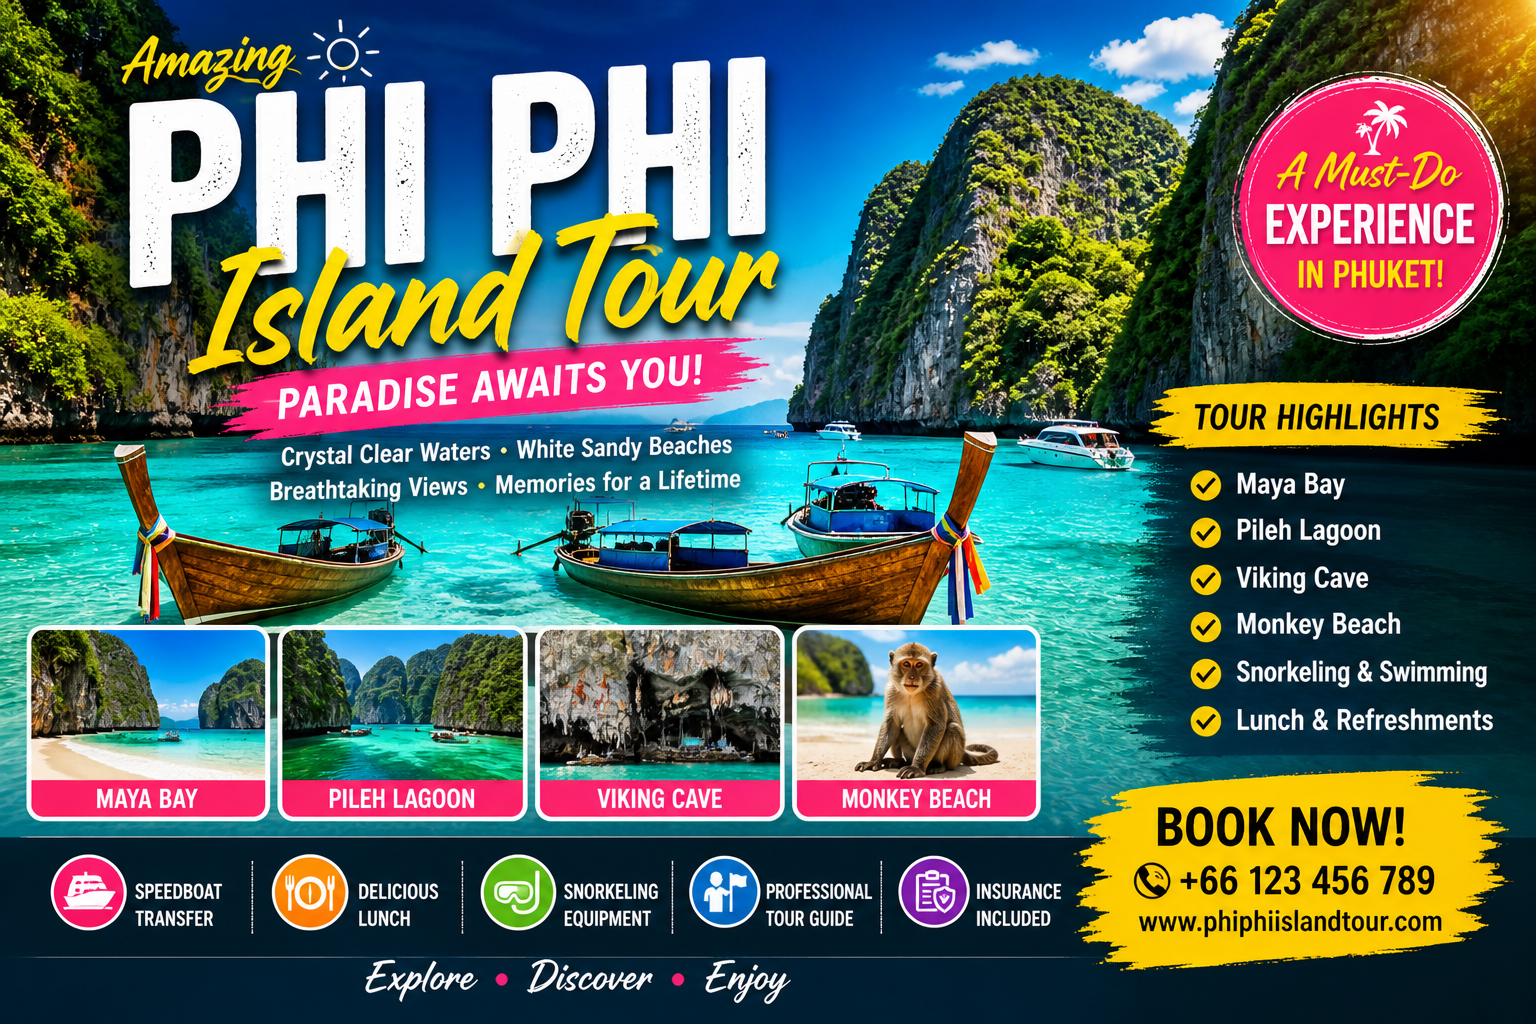
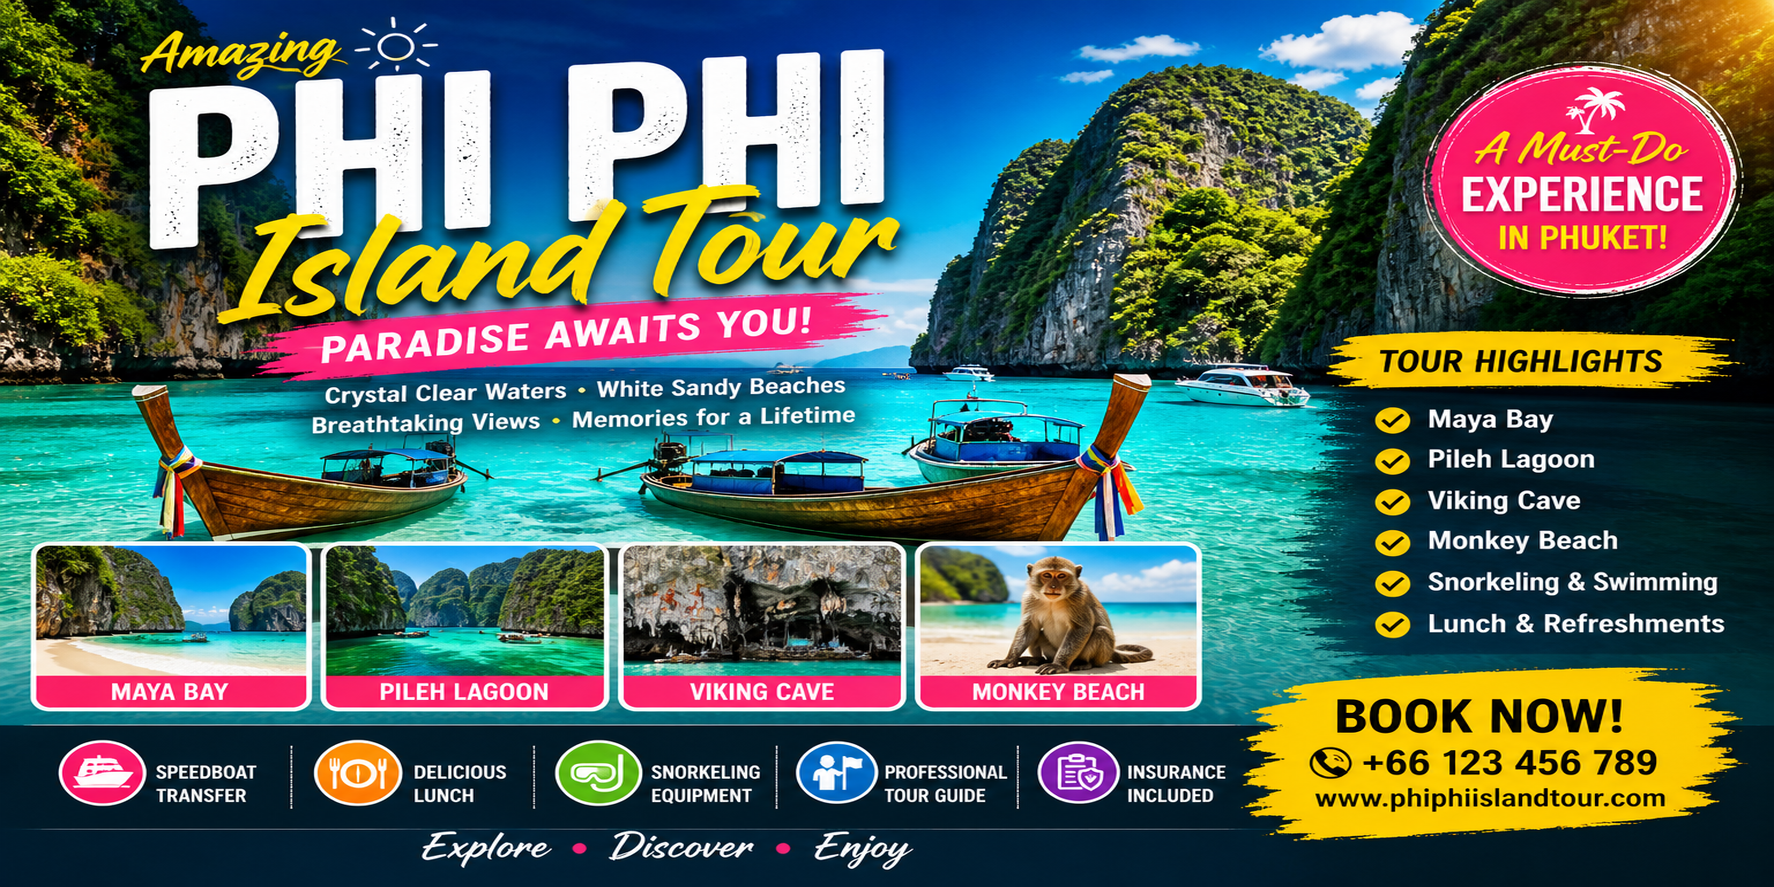
update

diff --git a/index.html b/index.html
@@ -978,123 +978,7 @@
       </div>
     </div>
   </section>
-  <!-- destinatoions-->
-  <!-- POPULAR DESTINATIONS -->
 
-  <section class="px-4 pt-4 pb-10 sm:px-6 lg:px-8">
-
-    <div class="mx-auto max-w-7xl">
-
-      <!-- HEADING -->
-
-      <div class="mb-6 text-center reveal">
-
-        <h2 class="font-display mt-2 text-3xl font-extrabold text-navy sm:text-4xl">
-
-          Popular Destinations
-
-        </h2>
-
-      </div>
-
-      <!-- DESTINATION FILTERS -->
-
-      <div id="destination-filters"
-        class="glass-panel reveal mb-6 flex flex-wrap justify-center gap-3 rounded-2xl p-4 shadow-card">
-
-        <!-- ACTIVE -->
-
-        <button class="btn-travel-gradient rounded-full px-5 py-2.5 text-sm font-extrabold text-white shadow-md">
-
-          Bangkok
-
-        </button>
-
-        <!-- OTHERS -->
-
-        <button
-          class="rounded-full border border-slate-200 bg-white px-5 py-2.5 text-sm font-bold text-slate-700 transition hover:border-navy hover:bg-navy hover:text-white">
-
-          Pattaya
-
-        </button>
-
-        <button
-          class="rounded-full border border-slate-200 bg-white px-5 py-2.5 text-sm font-bold text-slate-700 transition hover:border-navy hover:bg-navy hover:text-white">
-
-          Phuket
-
-        </button>
-
-        <button
-          class="rounded-full border border-slate-200 bg-white px-5 py-2.5 text-sm font-bold text-slate-700 transition hover:border-navy hover:bg-navy hover:text-white">
-
-          Krabi
-
-        </button>
-
-        <button
-          class="rounded-full border border-slate-200 bg-white px-5 py-2.5 text-sm font-bold text-slate-700 transition hover:border-navy hover:bg-navy hover:text-white">
-
-          Koh Samui
-
-        </button>
-
-        <button
-          class="rounded-full border border-slate-200 bg-white px-5 py-2.5 text-sm font-bold text-slate-700 transition hover:border-navy hover:bg-navy hover:text-white">
-
-          Chiang Mai
-
-        </button>
-
-        <button
-          class="rounded-full border border-slate-200 bg-white px-5 py-2.5 text-sm font-bold text-slate-700 transition hover:border-navy hover:bg-navy hover:text-white">
-
-          Chiang Rai
-
-        </button>
-
-      </div>
-
-      <!-- DESTINATION SLIDER -->
-
-      <div class="destination-container reveal">
-
-        <div class="relative">
-
-          <!-- PREV -->
-
-          <button id="destination-prev" type="button"
-            class="btn-travel-gradient absolute -left-3 top-1/2 z-10 hidden h-10 w-10 -translate-y-1/2 items-center justify-center rounded-full text-white shadow-premium transition hover:brightness-110 md:flex">
-
-            <i data-lucide="chevron-left" class="h-5 w-5"></i>
-
-          </button>
-
-          <!-- GRID -->
-
-          <div id="destination-grid" class="slider-track scrollbar-hide flex gap-5 overflow-x-auto rounded-2xl">
-
-            <!-- PASTE DESTINATION CARDS HERE -->
-
-          </div>
-
-          <!-- NEXT -->
-
-          <button id="destination-next" type="button"
-            class="btn-travel-gradient absolute -right-3 top-1/2 z-10 hidden h-10 w-10 -translate-y-1/2 items-center justify-center rounded-full text-white shadow-premium transition hover:brightness-110 md:flex">
-
-            <i data-lucide="chevron-right" class="h-5 w-5"></i>
-
-          </button>
-
-        </div>
-
-      </div>
-
-    </div>
-
-  </section>
   <!-- Flight banner -->
   <section class="px-4 pb-12 sm:px-6 lg:px-8">
 
@@ -2194,196 +2078,11 @@
   </script>
   <script>
 
-    // =========================
-    // DESTINATIONS DATA
-    // =========================
-
-    const destinations = [
-
-      // BANGKOK
-      {
-        category: "Bangkok",
-        image: "./destinations/b1.png",
-        title: "Bangkok City",
-      },
-
-      {
-        category: "Bangkok",
-        image: "./destinations/b2.png",
-        title: "Bangkok Nightlife",
-      },
-
-      {
-        category: "Bangkok",
-        image: "./destinations/b3.png",
-        title: "Bangkok Temples",
-      },
 
 
 
-      // PHUKET
-      {
-        category: "Phuket",
-        image: "./destinations/p1.png",
-        title: "Phuket Beaches",
-      },
 
-      {
-        category: "Phuket",
-        image: "./destinations/p2.png",
-        title: "Phi Phi Island",
-      },
-
-      {
-        category: "Phuket",
-        image: "./destinations/p3.png",
-        title: "Phuket Sunset",
-      },
-
-
-
-      // PATTAYA
-      {
-        category: "Pattaya",
-        image: "",
-        title: "Pattaya Beach",
-      },
-
-
-
-      // KRABI
-      {
-        category: "Krabi",
-        image: "",
-        title: "Krabi Islands",
-      },
-
-
-
-      // KOH SAMUI
-      {
-        category: "Koh Samui",
-        image: "",
-        title: "Koh Samui",
-      },
-
-
-
-      // CHIANG MAI
-      {
-        category: "Chiang Mai",
-        image: "",
-        title: "Chiang Mai Mountains",
-      },
-
-
-
-      // CHIANG RAI
-      {
-        category: "Chiang Rai",
-        image: "",
-        title: "Chiang Rai Temple",
-      },
-
-    ];
-
-
-
-    // =========================
-    // DESTINATION RENDER
-    // =========================
-
-    const destinationGrid = document.getElementById("destination-grid");
-
-    function renderDestinations(category = "Bangkok") {
-
-      destinationGrid.innerHTML = "";
-
-      const filtered = destinations.filter(
-        item => item.category === category
-      );
-
-      filtered.forEach((item) => {
-
-        destinationGrid.innerHTML += `
-
-        <div
-          class="group relative min-w-[520px] overflow-hidden rounded-[28px] bg-black shadow-card md:min-w-[620px]">
-
-          <!-- IMAGE -->
-          <div class="relative overflow-hidden bg-black">
-
-            <img
-              src="${item.image}"
-              alt="${item.title}"
-            class="h-full w-full object-contain transition duration-700 group-hover:scale-105"
-            />
-
-            <!-- OVERLAY -->
-            <div
-              class="absolute inset-0 bg-gradient-to-t from-black/70 via-black/10 to-transparent">
-            </div>
-
-
-          </div>
-
-        </div>
-
-      `;
-
-      });
-
-    }
-
-
-
-    // =========================
-    // FILTER BUTTONS
-    // =========================
-
-    const destinationButtons = document.querySelectorAll(
-      "#destination-filters button"
-    );
-
-    destinationButtons.forEach((button) => {
-
-      button.addEventListener("click", () => {
-
-        // RESET
-        destinationButtons.forEach((btn) => {
-
-          btn.classList.remove(
-            "btn-travel-gradient",
-            "text-white"
-          );
-
-          btn.classList.add(
-            "bg-white",
-            "text-slate-700"
-          );
-
-        });
-
-        // ACTIVE
-        button.classList.add(
-          "btn-travel-gradient",
-          "text-white"
-        );
-
-        button.classList.remove(
-          "bg-white",
-          "text-slate-700"
-        );
-
-        // RENDER
-        renderDestinations(button.innerText.trim());
-
-      });
-
-    });
-
-
-
+  
     // =========================
     // INITIAL LOAD
     // =========================